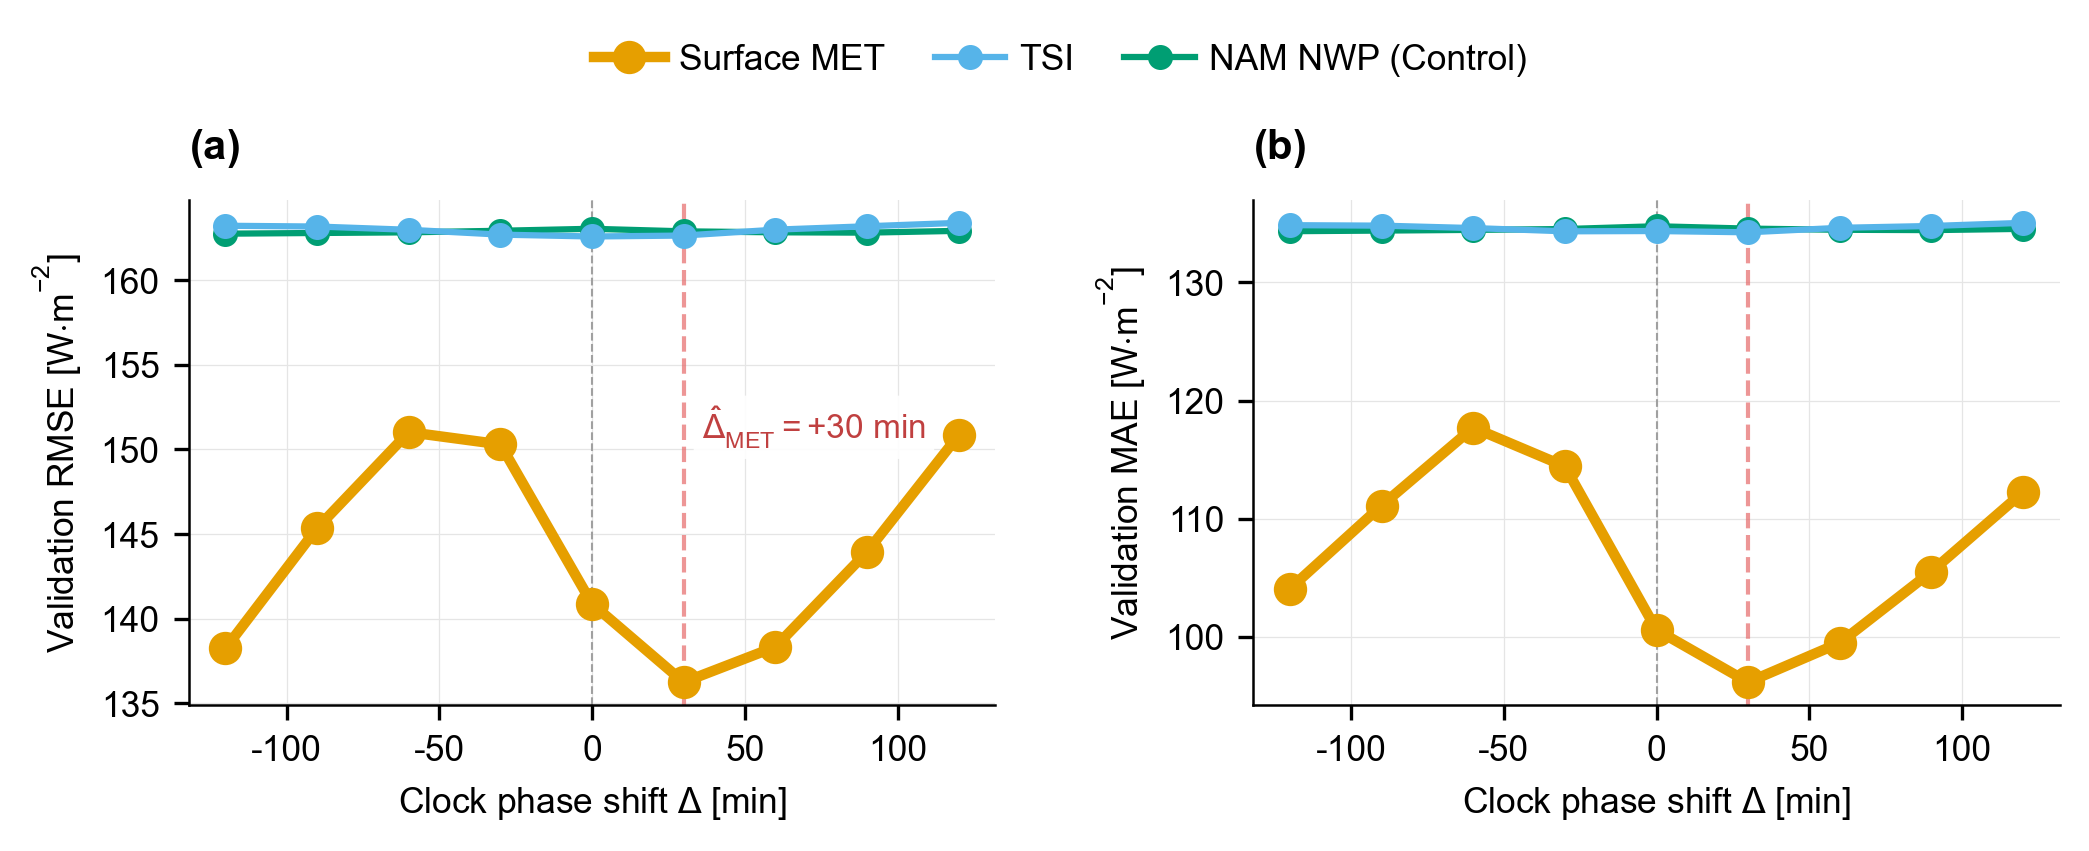
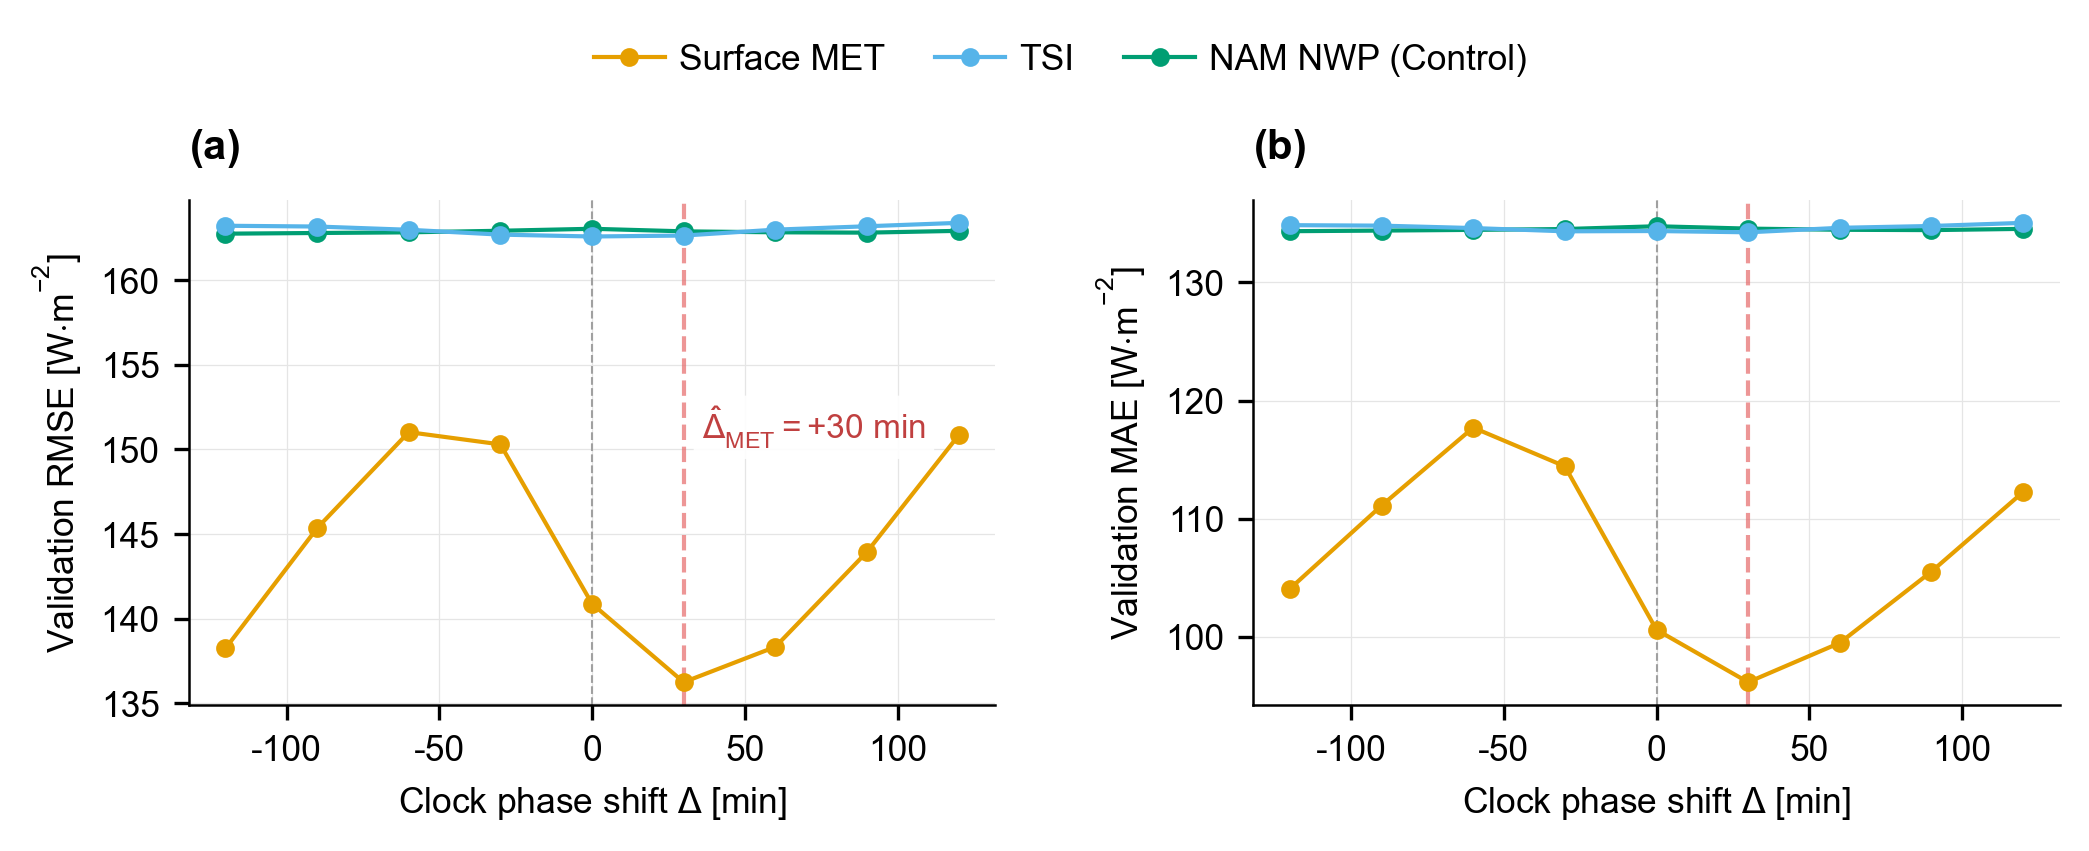
viz(essd-fig8): line styling matched to fig3_benchmark_horizon_lines — uniform thin lines (lw 1.0, ms 3.5), Wong palette order; the Plan-B protagonist/background hierarchy is retired per user preference

diff --git a/scripts/plot_essd_fig8_phase.py b/scripts/plot_essd_fig8_phase.py
@@ -37,12 +37,13 @@ GRID_COLOR = "#E5E5E5"
 GRID_WIDTH = 0.3
 TITLE_PT = 10
 
-MOD_COLORS = {"TSI": "#56B4E9", "MET": "#E69F00", "NWP": "#009E73"}
+#: Line styling matched to fig3_benchmark_horizon_lines: uniform thin lines
+#: (LINE_WIDTH_DATA + 0.4 = 1.0) + small markers (MARKER_SIZE + 2 = 3.5),
+#: Wong palette order as in the rest of the set.
+MOD_COLORS = {"MET": "#E69F00", "TSI": "#56B4E9", "NWP": "#009E73"}
 MOD_LABELS = {"TSI": "TSI", "MET": "Surface MET", "NWP": "NAM NWP (Control)"}
-#: Plan-B hierarchy: MET is the protagonist, TSI/NWP recede as background.
-MOD_STYLE = {"MET": dict(linewidth=2.5, markersize=7),
-             "TSI": dict(linewidth=1.5, markersize=5),
-             "NWP": dict(linewidth=1.5, markersize=5)}
+MOD_STYLE = {g: dict(linewidth=LINE_WIDTH_DATA + 0.4,
+                     markersize=MARKER_SIZE + 2) for g in MOD_COLORS}
 BEST_MET_DELTA = 30          # the discovered systematic clock delay (min)
 
 mpl.rcParams.update({
